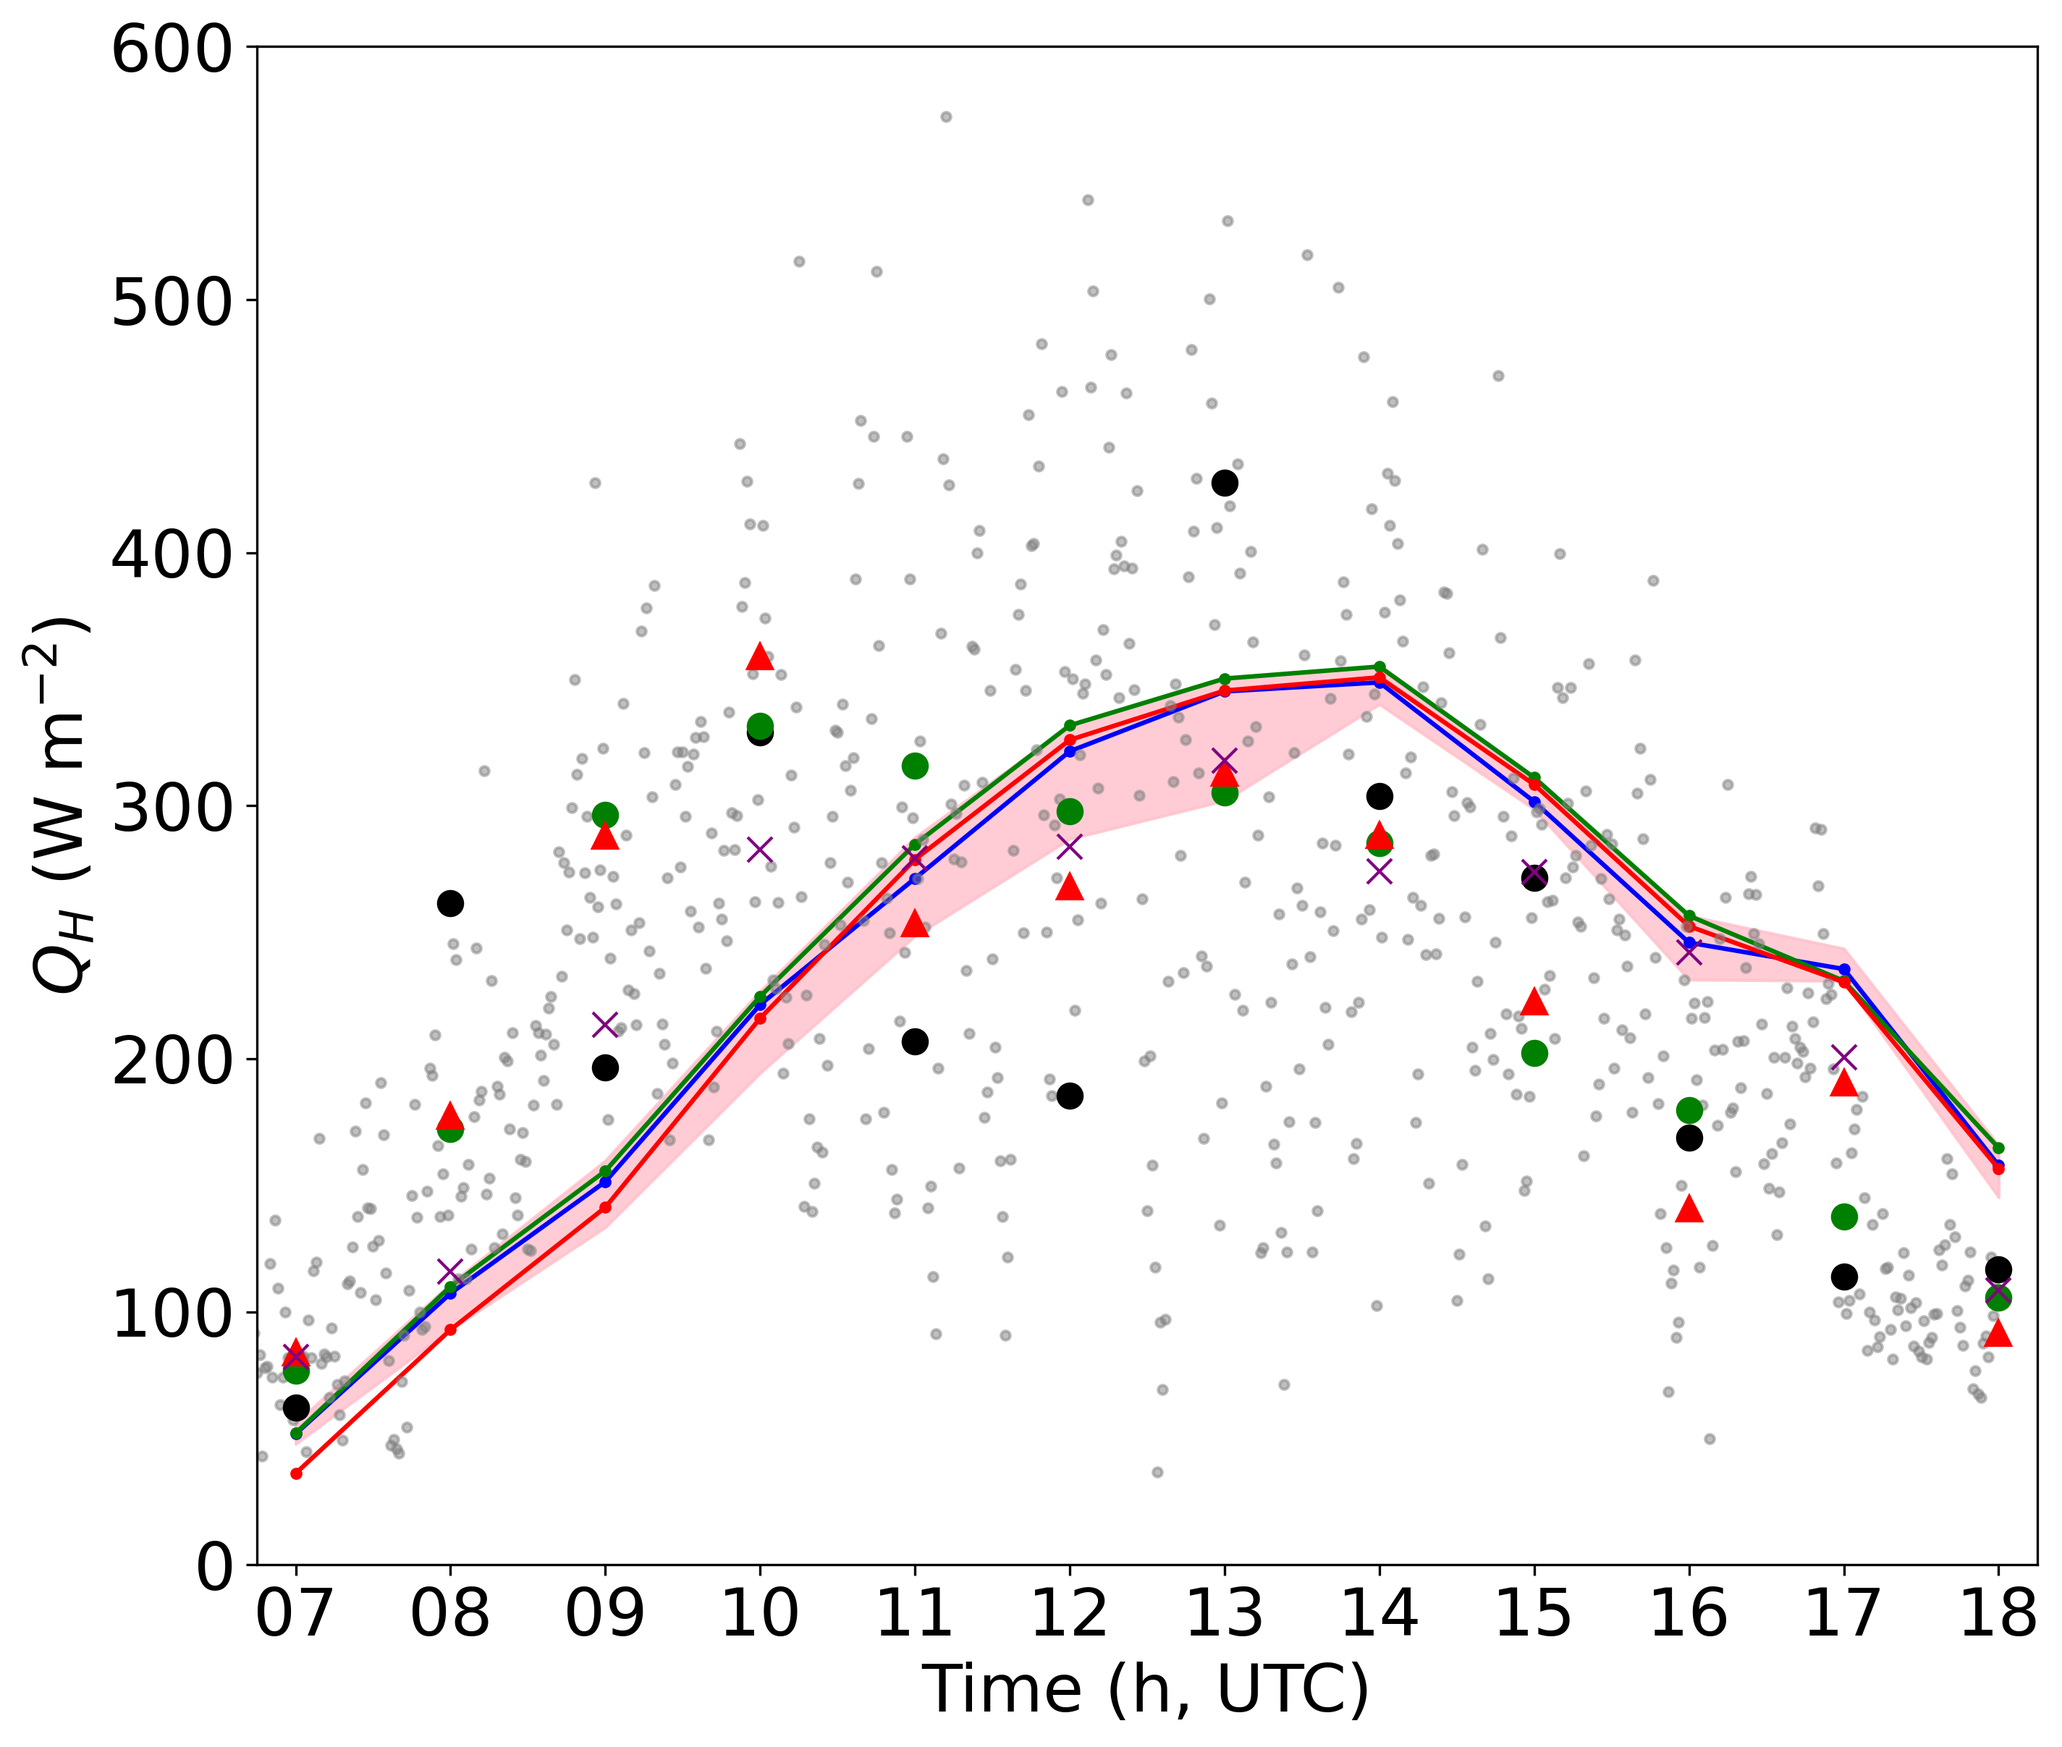
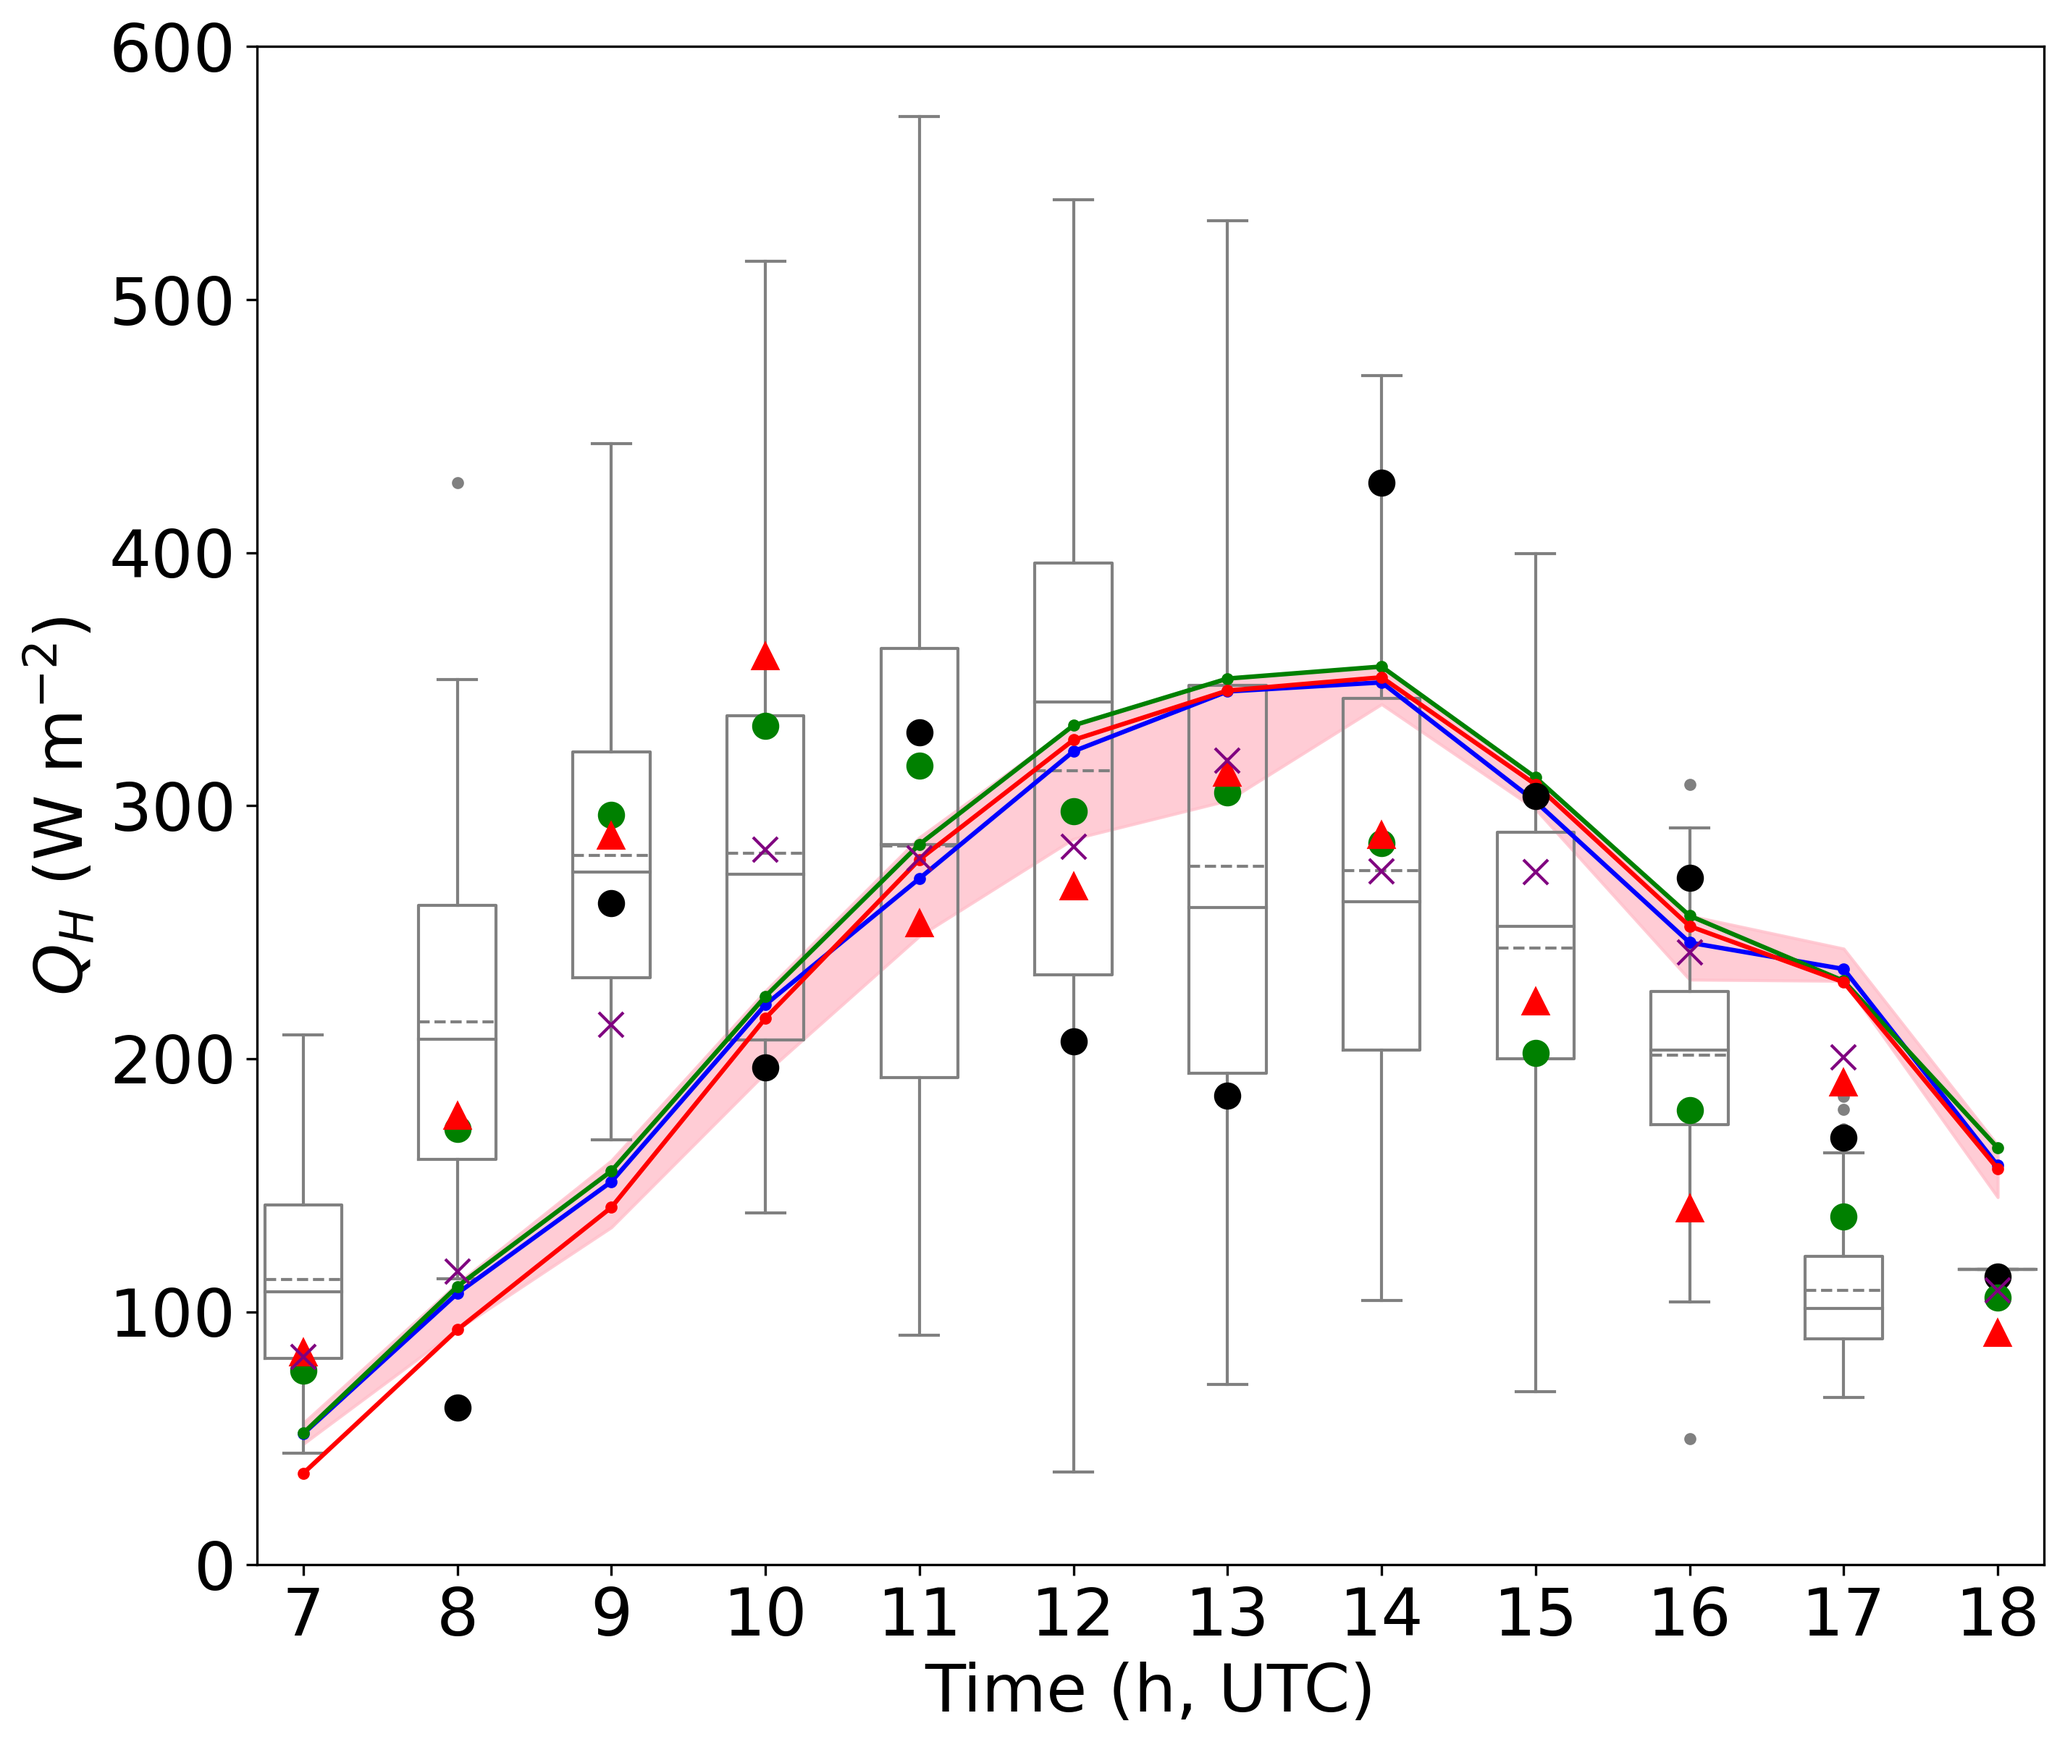
potentially bad changes made to detailed time series - to undo?

diff --git a/scint_plots/detailed_time_series/detailed_time_series_funs.py b/scint_plots/detailed_time_series/detailed_time_series_funs.py
@@ -158,11 +158,21 @@ def detailed_time_series(obs_df,
     max_grid_vals, min_grid_vals, n_grids = variation_in_grids(ukv_df, model_site_dict)
 
 
+    # boxplot takes hour value as position, i.e., 6am will be taken as position 6
+    # so adjust this based on the hour - the first hour in the observations + 1
+    ukv_hour_positions = ukv_df.index.hour - list(set(obs_df.index.hour))[0] + 1
 
-    ax1.fill_between(ukv_df.index, max_grid_vals, min_grid_vals, color='pink',
+    # obs positions
+    obs_1min_positions = hour_1min.index.hour - list(set(obs_df.index.hour))[0] + (hour_1min.index.hour[0] - list(set(obs_df.index.hour))[0])
+    obs_5min_positions = hour_5min.index.hour - list(set(obs_df.index.hour))[0] + (hour_5min.index.hour[0] - list(set(obs_df.index.hour))[0])
+    obs_10min_positions = hour_10min.index.hour - list(set(obs_df.index.hour))[0] + (hour_10min.index.hour[0] - list(set(obs_df.index.hour))[0])
+    obs_60min_positions = hour_60min.index.hour - list(set(obs_df.index.hour))[0] + (hour_60min.index.hour[0] - list(set(obs_df.index.hour))[0])
+
+
+    ax1.fill_between(ukv_hour_positions, max_grid_vals, min_grid_vals, color='pink',
                      alpha=0.8, label='UKV grid-box range in SA analysis')
 
-    ax1.plot(ukv_df.index, ukv_df['WAverage'], label='UKV grid-box average with LAS-SA weighting @ surface', color='blue',
+    ax1.plot(ukv_hour_positions, ukv_df['WAverage'], label='UKV grid-box average with LAS-SA weighting @ surface', color='blue',
              marker='.')
 
     if variable == 'kdown':
@@ -170,29 +180,42 @@ def detailed_time_series(obs_df,
     if variable == 'H':
         grid_box_letter = 'A'  # where the centre coord of the path is
 
-    ax1.plot(ukv_df.index, ukv_df[13],
+
+
+    ax1.plot(ukv_hour_positions, ukv_df[13],
              label='UKV @ surface: grid-box ' + grid_box_letter, color='green', marker='.')
 
     # if I am including the BL_H grid
     try:
-        ukv_level = ax1.plot(ukv_df.index, ukv_df['BL_H'], label='UKV @ ' + str(int(BL_H_z)) + ' m agl: grid-box ' + grid_box_letter, color='red', marker='.')
+        ukv_level = ax1.plot(ukv_hour_positions, ukv_df['BL_H'], label='UKV @ ' + str(int(BL_H_z)) + ' m agl: grid-box ' + grid_box_letter, color='red', marker='.')
     except KeyError:
         pass
 
-    obs_all = ax1.plot(obs_df.index, obs_df[df_col], linestyle='None', marker='.', color='grey', alpha=0.5,
-             label="1 min obs")
 
-    obs_1 = ax1.plot(hour_1min.index, hour_1min.values, linestyle='None', marker='o', color='k', markersize=8,
-             label="1 min obs on hour")
+    groups = obs_df.groupby(pd.Grouper(freq='H'))
 
-    obs_5 = ax1.plot(hour_5min.index, hour_5min.values, linestyle='None', marker='o', color='green', markersize=8,
-             label="5 min obs on hour")
+    hours = pd.concat([pd.DataFrame(x[1].QH) for x in groups], axis=1)
+    hours.columns = list(set(obs_df.index.hour))
+    meanprops = dict(color="grey")
+    flierprops = {'marker': '.', 'markerfacecolor': 'grey', 'markeredgecolor': 'grey'}
+    hours.boxplot(zorder=1, showmeans=True, meanline=True, color='grey', meanprops=meanprops, flierprops=flierprops)
 
-    obs_10 = ax1.plot(hour_10min.index, hour_10min.values, linestyle='None', marker='^', color='red', markersize=8,
-             label="10 min obs on hour")
+    # obs_all = ax1.plot(obs_df.index, obs_df[df_col], linestyle='None', marker='.', color='grey', alpha=0.5,
+    #          label="1 min obs")
 
-    obs_60 = ax1.plot(hour_60min.index, hour_60min.values, linestyle='None', marker='x', color='purple', markersize=8,
-             label="60 min obs")
+    obs_1 = ax1.plot(obs_1min_positions, hour_1min.values, linestyle='None', marker='o', color='k', markersize=8,
+             label="1 min obs on hour", zorder=7)
+
+    obs_5 = ax1.plot(obs_5min_positions, hour_5min.values, linestyle='None', marker='o', color='green', markersize=8,
+             label="5 min obs on hour", zorder=8)
+
+    obs_10 = ax1.plot(obs_10min_positions, hour_10min.values, linestyle='None', marker='^', color='red', markersize=8,
+             label="10 min obs on hour", zorder=9)
+
+    obs_60 = ax1.plot(obs_60min_positions, hour_60min.values, linestyle='None', marker='x', color='purple', markersize=8,
+             label="60 min obs", zorder=10)
+
+    plt.grid(False)
 
     ax1.set_ylabel(label_string)
 
@@ -200,7 +223,8 @@ def detailed_time_series(obs_df,
         ax1.set_xlim([ukv_df.index[0] - dt.timedelta(minutes=30), ukv_df.index[-1]])
         ax1.set_ylim(0, 1000)
     else:
-        ax1.set_xlim([ukv_df.index[0] - dt.timedelta(minutes=15), ukv_df.index[-1] + dt.timedelta(minutes=15)])
+        # ax1.set_xlim([ukv_df.index[0] - dt.timedelta(minutes=15), ukv_df.index[-1] + dt.timedelta(minutes=15)])
+        ax1.set_xlim([ukv_hour_positions[0] - 0.3, ukv_hour_positions[-1] + 0.3])
         ax1.set_ylim(0, 600)
 
     # get handles and labels
@@ -208,7 +232,7 @@ def detailed_time_series(obs_df,
 
     # specify order of items in legend
     if variable == 'H':
-        order = [0, 1, 2, 8, 3, 4, 5, 6, 7]
+        order = [0, 1, 2, 7, 3, 4, 5, 6]
 
     elif variable == 'kdown':
         if type(ukv_df_all_grids) == pd.core.frame.DataFrame:
@@ -241,7 +265,7 @@ def detailed_time_series(obs_df,
         if obs_df.index[0].strftime('%Y%j') == '2016123':
 
 
-            ax1.legend([handles[idx] for idx in order][:-5], [labels[idx] for idx in order][:-5],fontsize=15)  # [:-5] just model handles
+            ax1.legend([handles[idx] for idx in order][:-4], [labels[idx] for idx in order][:-4],fontsize=15)  # [:-5] just model handles
 
             # # Fix legend
             # hand, labl = ax1.get_legend_handles_labels()
@@ -269,7 +293,7 @@ def detailed_time_series(obs_df,
         # plt.gcf().autofmt_xdate()
 
     else:
-        ax1.xaxis.set_major_formatter(DateFormatter('%H'))
+        # ax1.xaxis.set_major_formatter(DateFormatter('%H'))
         ax1.set_xlabel('Time (h, UTC)')
         # plt.gcf().autofmt_xdate()
 

diff --git a/scint_plots/detailed_time_series/main_H_detailed_time_series.py b/scint_plots/detailed_time_series/main_H_detailed_time_series.py
@@ -9,7 +9,7 @@ from scint_plots.tools.preprocessed_UKV_csvs import UKV_lookup
 from scint_plots.detailed_time_series import detailed_time_series_funs
 
 scint_path = 12
-DOY_list = [2016123, 2016126]
+DOY_list = [2016126, 2016123]
 var_list = ['QH', 'z_f']
 time_res = '1min_sa10min'
 
